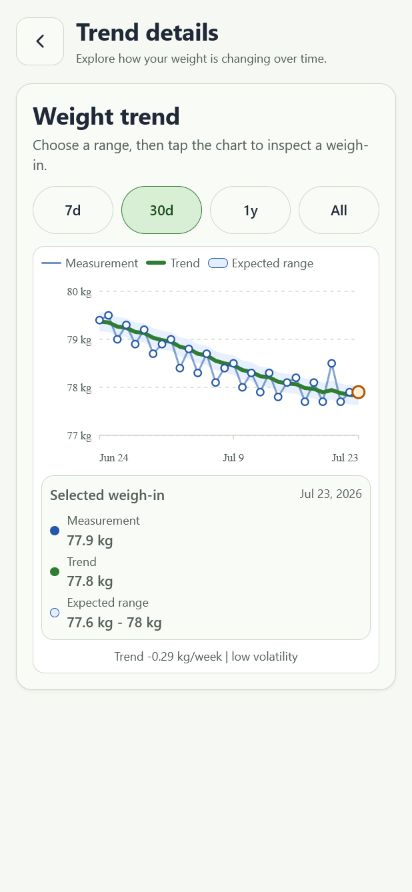
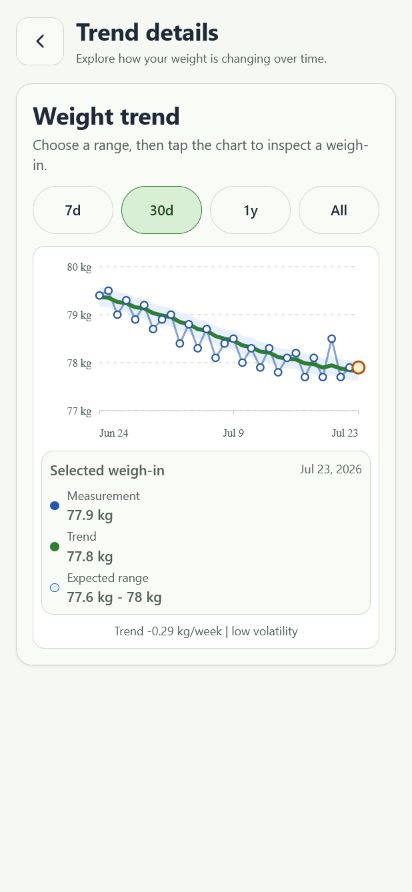
Remove duplicate trend legend

Changed region(s): [[0.1165, 0.2724, 0.9029, 0.7567], [0.7282, 0.4843, 0.9029, 0.5751], [0.5243, 0.4843, 0.6117, 0.5146]]

diff --git a/mobile/src/components/WeightTrendCard.tsx b/mobile/src/components/WeightTrendCard.tsx
@@ -1,5 +1,5 @@
 import React, { useEffect, useMemo, useState } from 'react';
-import { Pressable, StyleSheet, View, type StyleProp, type ViewProps, type ViewStyle } from 'react-native';
+import { Pressable, StyleSheet, View, type ViewProps } from 'react-native';
 import Ionicons from '@expo/vector-icons/Ionicons';
 import Svg, { Circle, Line, Path, Polygon, Text as SvgText } from 'react-native-svg';
 import { useQuery } from '@tanstack/react-query';
@@ -285,11 +285,6 @@ export const WeightTrendCard: React.FC<WeightTrendCardProps> = ({
                 </View>
             ) : (
                 <View style={styles.chartShell}>
-                    <View style={styles.chartLegend} accessibilityLabel="Chart legend">
-                        <ChartLegendItem label="Measurement" tone="measurement" />
-                        <ChartLegendItem label="Trend" tone="trend" />
-                        <ChartLegendItem label="Expected range" tone="range" />
-                    </View>
                     <View
                         style={styles.chartCanvas}
                         onLayout={(event) => setChartCanvasWidth(event.nativeEvent.layout.width)}
@@ -383,23 +378,6 @@ export const WeightTrendCard: React.FC<WeightTrendCardProps> = ({
     );
 };
 
-const ChartLegendItem: React.FC<{ label: string; tone: 'measurement' | 'trend' | 'range' }> = ({ label, tone }) => {
-    const theme = useAppTheme();
-    const styles = useMemo(() => createStyles(theme), [theme]);
-    let swatchStyle: StyleProp<ViewStyle> = styles.measurementSwatch;
-    if (tone === 'trend') swatchStyle = styles.trendSwatch;
-    if (tone === 'range') swatchStyle = styles.rangeSwatch;
-
-    return (
-        <View style={styles.chartLegendItem}>
-            <View style={styles.chartLegendSwatchSlot}>
-                <View style={swatchStyle} />
-            </View>
-            <AppText variant="caption">{label}</AppText>
-        </View>
-    );
-};
-
 const TrendPointDetails: React.FC<{ point: ChartPoint; unit: Parameters<typeof formatWeight>[1] }> = ({ point, unit }) => {
     const theme = useAppTheme();
     const styles = useMemo(() => createStyles(theme), [theme]);
@@ -453,44 +431,6 @@ const createStyles = (theme: AppTheme) => StyleSheet.create({
         borderWidth: StyleSheet.hairlineWidth,
         padding: spacing.sm,
         gap: spacing.sm
-    },
-    chartLegend: {
-        flexDirection: 'row',
-        flexWrap: 'wrap',
-        alignItems: 'center',
-        gap: spacing.sm
-    },
-    chartLegendItem: {
-        flexDirection: 'row',
-        alignItems: 'center',
-        gap: spacing.xs
-    },
-    chartLegendSwatchSlot: {
-        width: 20,
-        height: 12,
-        alignItems: 'center',
-        justifyContent: 'center'
-    },
-    measurementSwatch: {
-        width: 20,
-        height: 2,
-        borderRadius: radius.pill,
-        backgroundColor: theme.colors.info,
-        opacity: 0.65
-    },
-    trendSwatch: {
-        width: 20,
-        height: 4,
-        borderRadius: radius.pill,
-        backgroundColor: theme.colors.primary
-    },
-    rangeSwatch: {
-        width: 20,
-        height: 10,
-        borderRadius: radius.sm,
-        borderColor: theme.colors.info,
-        borderWidth: StyleSheet.hairlineWidth,
-        backgroundColor: theme.colors.infoContainer
     },
     chartCanvas: {
         position: 'relative',

diff --git a/mobile/src/components/WeightTrendCard.test.tsx b/mobile/src/components/WeightTrendCard.test.tsx
@@ -93,16 +93,17 @@ describe('WeightTrendCard', () => {
         expect(getByText('168.3 lb on Jul 15, 2026')).toBeTruthy();
     });
 
-    it('labels the chart scale, dates, and visual series', () => {
-        const { getAllByText, getByLabelText } = render(<WeightTrendCard />);
+    it('labels the chart scale, dates, and selected-point series without a duplicate legend', () => {
+        const { getAllByText, getByLabelText, queryByLabelText } = render(<WeightTrendCard />);
 
         expect(getByLabelText('170 lb weight axis label')).toBeTruthy();
         expect(getByLabelText('167 lb weight axis label')).toBeTruthy();
         expect(getByLabelText('Jul 13 date axis label')).toBeTruthy();
         expect(getByLabelText('Jul 14 date axis label')).toBeTruthy();
         expect(getByLabelText('Jul 15 date axis label')).toBeTruthy();
-        expect(getAllByText('Measurement')).toHaveLength(2);
-        expect(getAllByText('Trend')).toHaveLength(2);
-        expect(getAllByText('Expected range')).toHaveLength(2);
+        expect(queryByLabelText('Chart legend')).toBeNull();
+        expect(getAllByText('Measurement')).toHaveLength(1);
+        expect(getAllByText('Trend')).toHaveLength(1);
+        expect(getAllByText('Expected range')).toHaveLength(1);
     });
 });